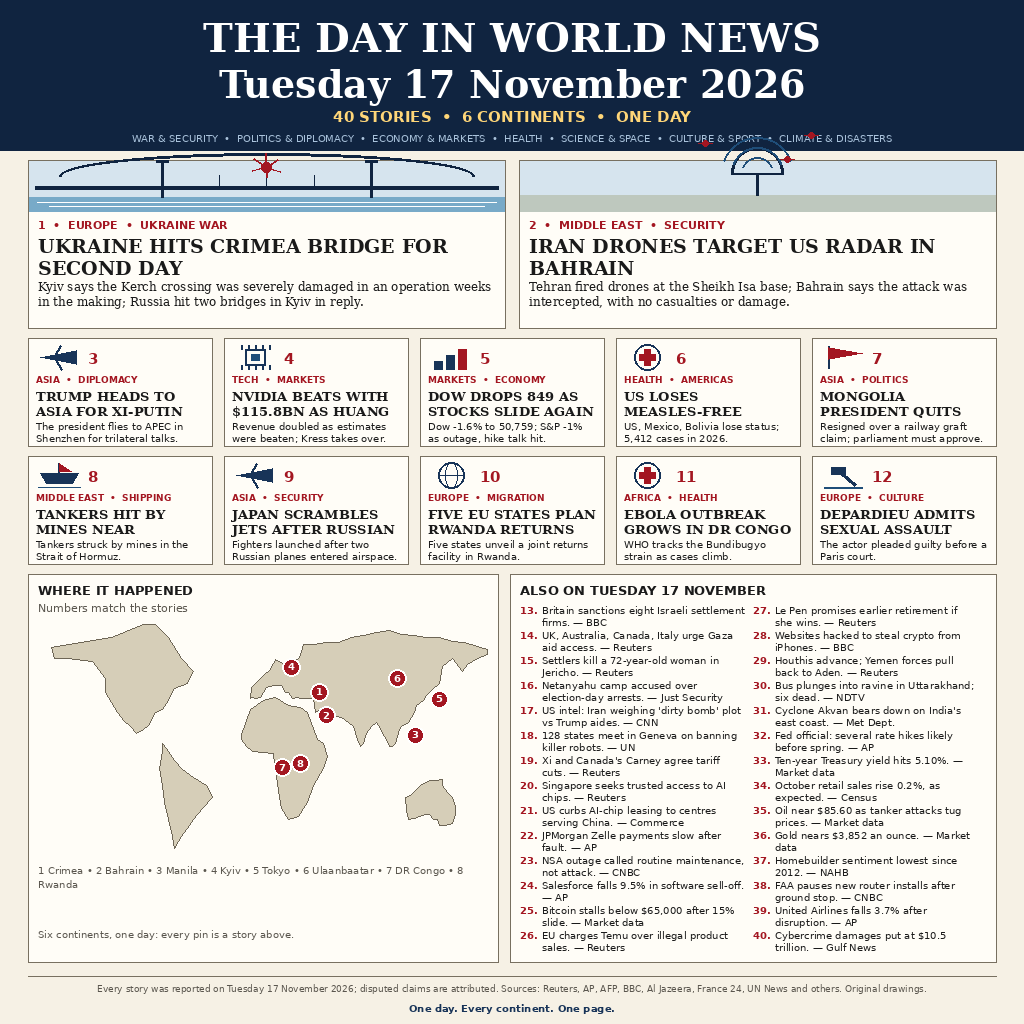
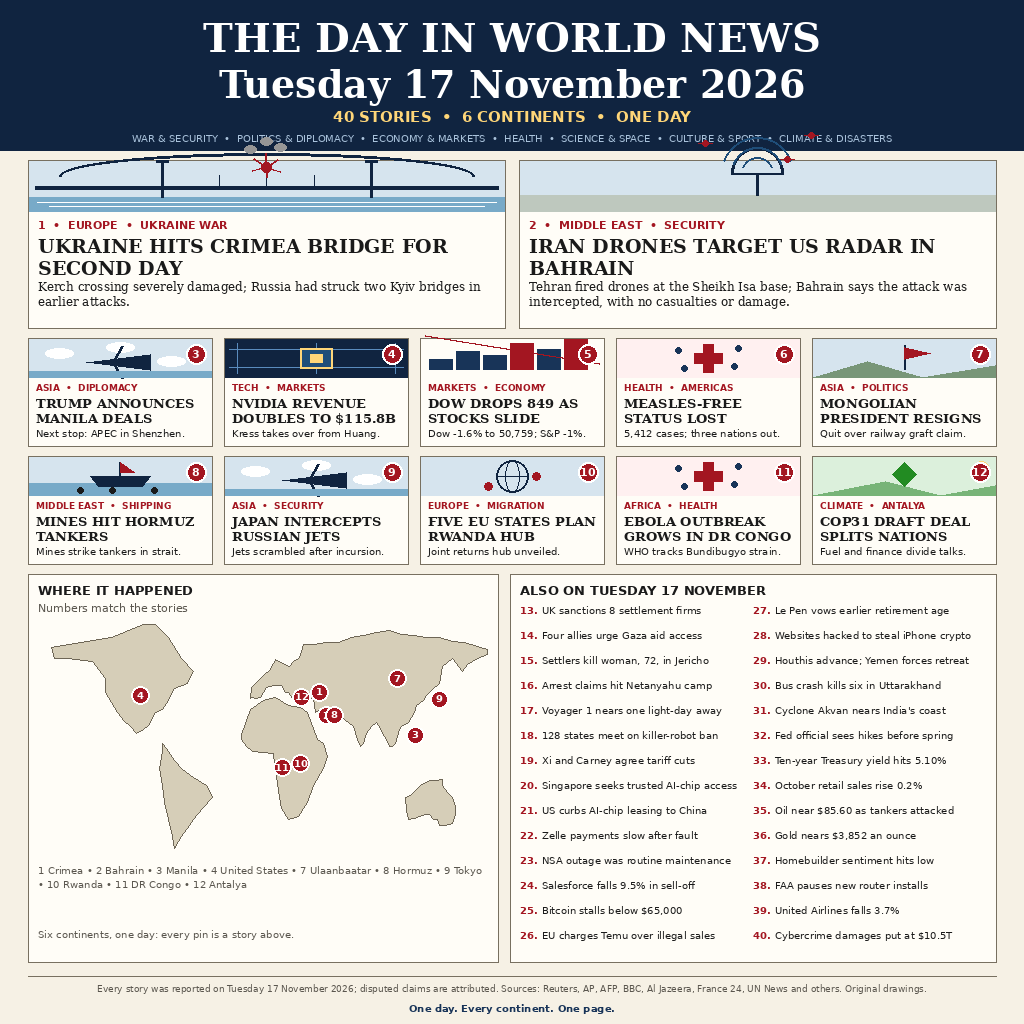
v2: fix all 3 LLM verdicts — full illustration band per card, story-number map pins, shortened headlines, COP31 replaces Depardieu, 'in reply' causality fixed, 1-line also-on; layout lint 100% pass

diff --git a/tools/build_image.py b/tools/build_image.py
@@ -168,6 +168,10 @@ def draw_icon(d, kind, x, y, w, h, c1, c2):
         d.ellipse([cx - 13, cy - 13, cx + 13, cy + 13], outline=c1, width=2)
         d.ellipse([cx - 6, cy - 13, cx + 6, cy + 13], outline=c1, width=1)
         d.line([(cx - 13, cy), (cx + 13, cy)], fill=c1, width=1)
+    elif kind == "leaf":
+        d.polygon([(cx, cy - 12), (cx + 10, cy), (cx, cy + 12), (cx - 10, cy)],
+                  fill=(34, 139, 34))
+        d.line([(cx - 10, cy + 12), (cx + 10, cy - 12)], fill=c1, width=1)
     else:
         d.ellipse([cx - 10, cy - 10, cx + 10, cy + 10], outline=c1, width=2)
 
@@ -194,7 +198,10 @@ def draw_hero_art(d, kind, x, y, w, h):
         for dx, dy in ((-12, -8), (0, -14), (12, -8), (-14, 4), (14, 4), (0, 10)):
             d.line([(bx, by), (bx + dx, by + dy)], fill=RED, width=2)
         d.ellipse([bx - 5, by - 5, bx + 5, by + 5], fill=RED)
-    else:  # radar
+        # smoke puffs above the blast
+        for sx, sy in ((bx - 16, by - 18), (bx + 14, by - 20), (bx, by - 26)):
+            d.ellipse([sx - 6, sy - 4, sx + 6, sy + 4], fill=(150, 150, 150))
+    elif kind == "radar":
         # ground + dish
         gy = y + h - 16
         d.rectangle([x, y + h - 16, x + w, y + h], fill=(190, 200, 190))
@@ -208,6 +215,77 @@ def draw_hero_art(d, kind, x, y, w, h):
         for dx, dy in ((-52, -30), (54, -38), (30, -14)):
             d.ellipse([mx + dx - 3, gy - 22 + dy - 3, mx + dx + 3, gy - 22 + dy + 3], fill=RED)
             d.line([(mx + dx - 7, gy - 22 + dy), (mx + dx + 7, gy - 22 + dy)], fill=RED, width=1)
+    elif kind == "plane":
+        for cx0, cy0 in ((x + 30, y + 14), (x + w - 40, y + 22), (x + w // 2, y + 8)):
+            d.ellipse([cx0 - 14, cy0 - 5, cx0 + 14, cy0 + 5], fill=(255, 255, 255))
+        px, py = x + w // 2, y + h // 2 + 4
+        d.polygon([(px - 34, py), (px + 30, py - 8), (px + 30, py + 8)], fill=NAVY)
+        d.line([(px - 6, py - 2), (px + 2, py - 16)], fill=NAVY, width=3)
+        d.line([(px - 6, py + 2), (px + 2, py + 16)], fill=NAVY, width=3)
+        d.rectangle([x, y + h - 6, x + w, y + h], fill=(120, 170, 200))
+    elif kind == "chip":
+        d.rectangle([x, y, x + w, y + h], fill=NAVY)
+        for lx in (x + 12, x + w // 2, x + w - 12):
+            d.line([(lx, y + 4), (lx, y + h - 4)], fill=(90, 140, 190), width=1)
+        for ly in (y + 10, y + h - 10):
+            d.line([(x + 4, ly), (x + w - 4, ly)], fill=(90, 140, 190), width=1)
+        cx, cy = x + w // 2, y + h // 2
+        d.rectangle([cx - 16, cy - 10, cx + 16, cy + 10], fill=(31, 78, 121),
+                    outline=(255, 214, 120), width=2)
+        d.rectangle([cx - 6, cy - 4, cx + 6, cy + 4], fill=(255, 214, 120))
+    elif kind == "chart":
+        d.rectangle([x, y, x + w, y + h], fill=(255, 253, 247))
+        base = y + h - 8
+        for i, bh in enumerate((10, 18, 14, 26, 20, 30)):
+            bx = x + 8 + i * ((w - 16) // 6)
+            d.rectangle([bx, base - bh, bx + (w - 16) // 6 - 4, base],
+                        fill=RED if i in (3, 5) else NAVY2)
+        d.line([(x + 4, base - 34), (x + w - 4, base - 6)], fill=RED, width=2)
+    elif kind == "health":
+        d.rectangle([x, y, x + w, y + h], fill=(255, 240, 240))
+        cx, cy = x + w // 2, y + h // 2
+        d.rectangle([cx - 5, cy - 14, cx + 5, cy + 14], fill=RED)
+        d.rectangle([cx - 14, cy - 5, cx + 14, cy + 5], fill=RED)
+        for dx, dy in ((-30, -8), (30, -10), (-24, 10), (26, 8)):
+            d.ellipse([cx + dx - 3, cy + dy - 3, cx + dx + 3, cy + dy + 3], fill=NAVY2)
+    elif kind == "flag":
+        d.rectangle([x, y, x + w, y + h], fill=SKY)
+        d.polygon([(x, y + h), (x + w * 0.3, y + h - 16), (x + w * 0.6, y + h),
+                   (x + w, y + h - 12), (x + w, y + h)], fill=(120, 150, 120))
+        px = x + w // 2
+        d.line([(px, y + 6), (px, y + h - 8)], fill=NAVY, width=2)
+        d.polygon([(px, y + 8), (px + 26, y + 14), (px, y + 20)], fill=RED)
+    elif kind == "ship":
+        d.rectangle([x, y, x + w, y + h], fill=SKY)
+        d.rectangle([x, y + h - 12, x + w, y + h], fill=(120, 170, 200))
+        cx, cy = x + w // 2, y + h // 2
+        d.polygon([(cx - 30, cy), (cx + 30, cy), (cx + 22, cy + 10), (cx - 22, cy + 10)],
+                  fill=NAVY)
+        d.line([(cx, cy), (cx, cy - 14)], fill=NAVY, width=2)
+        d.polygon([(cx, cy - 14), (cx + 14, cy - 4), (cx, cy - 4)], fill=RED)
+        for dx in (-40, -8, 34):
+            d.ellipse([cx + dx - 3, cy + 14 - 3, cx + dx + 3, cy + 14 + 3],
+                      fill=(26, 26, 26))
+    elif kind == "globe":
+        d.rectangle([x, y, x + w, y + h], fill=SKY)
+        cx, cy = x + w // 2, y + h // 2
+        d.ellipse([cx - 16, cy - 16, cx + 16, cy + 16], outline=NAVY, width=2)
+        d.ellipse([cx - 7, cy - 16, cx + 7, cy + 16], outline=NAVY, width=1)
+        d.line([(cx - 16, cy), (cx + 16, cy)], fill=NAVY, width=1)
+        d.ellipse([cx + 20, cy - 4, cx + 28, cy + 4], fill=RED)
+        d.ellipse([cx - 28, cy + 6, cx - 20, cy + 14], fill=RED)
+    elif kind == "leaf":
+        d.rectangle([x, y, x + w, y + h], fill=(220, 240, 220))
+        d.ellipse([x + w - 22, y + 4, x + w - 6, y + 20], fill=(255, 214, 120))
+        d.polygon([(x, y + h), (x + w * 0.4, y + h - 14), (x + w * 0.7, y + h),
+                   (x + w, y + h - 10), (x + w, y + h)], fill=(120, 180, 120))
+        cx, cy = x + w // 2, y + h // 2 - 2
+        d.polygon([(cx, cy - 12), (cx + 12, cy), (cx, cy + 12), (cx - 12, cy)],
+                  fill=(34, 139, 34))
+    else:
+        d.rectangle([x, y, x + w, y + h], fill=SKY)
+        d.ellipse([x + w // 2 - 12, y + h // 2 - 12, x + w // 2 + 12, y + h // 2 + 12],
+                  outline=NAVY, width=2)
 
 
 def main():
@@ -266,14 +344,21 @@ def main():
         x = mx + c * (cw + gap_x)
         yy = cy0 + r * (ch + gap_y)
         d.rectangle([x, yy, x + cw, yy + ch], fill=PANEL, outline=RULE, width=1)
-        draw_icon(d, b["icon"], x + 8, yy + 6, 46, 26, NAVY2, BLUE)
-        d.text((x + 60, yy + 12), "%d" % (idx + 3), font=SANS_B(15), fill=RED)
-        d.text((x + 8, yy + 36), b["kicker"], font=SANS_B(9), fill=RED)
+        draw_hero_art(d, b["icon"], x + 1, yy + 1, cw - 2, 38)
+        # story number badge on the art band
+        bx0, by0 = x + cw - 26, yy + 6
+        d.ellipse([bx0, by0, bx0 + 20, by0 + 20], fill=RED,
+                  outline=(255, 255, 255), width=2)
+        num = str(idx + 3)
+        nw = d.textlength(num, font=SANS_B(11))
+        d.text((bx0 + (20 - nw) / 2, by0 + 3), num, font=SANS_B(11),
+               fill=(255, 255, 255))
+        d.text((x + 8, yy + 44), b["kicker"], font=SANS_B(9), fill=RED)
         hf2 = SERIF_B(13)
         hlines = wrap(d, b["headline"], hf2, cw - 16)[:2]
-        hyy = draw_lines(d, hlines, x + 8, yy + 50, hf2, INK, 15)
+        hyy = draw_lines(d, hlines, x + 8, yy + 57, hf2, INK, 15)
         bf2 = SANS(10)
-        blines = wrap(d, b["body"], bf2, cw - 16)[:2]
+        blines = wrap(d, b["body"], bf2, cw - 16)[:1]
         draw_lines(d, blines, x + 8, hyy + 2, bf2, INK, 12)
 
     # ---------- map + also-on (rank 1 footer) ----------
@@ -329,7 +414,7 @@ def main():
         num = "%d." % (i + 13)
         d.text((x, yy), num, font=SANS_B(10), fill=RED)
         tx = x + d.textlength(num, font=SANS_B(10)) + 4
-        for ln in wrap(d, item, SANS(10), col_w - (tx - x) - 8)[:2]:
+        for ln in wrap(d, item, SANS(10), col_w - (tx - x) - 8)[:1]:
             d.text((tx, yy), ln, font=SANS(10), fill=INK)
             yy += 12
 

diff --git a/tools/check_layout.py b/tools/check_layout.py
@@ -1,0 +1,82 @@
+#!/usr/bin/env python3
+"""Layout lint for the 17 Nov entry: no text may be cut off.
+
+Checks every headline/body/one-liner against the exact font, size and
+box width used in build_image.py. Exit 1 if anything would wrap past
+its allowed line count (the [:N] slices in build_image.py would drop
+words). Run: python3 tools/check_layout.py
+"""
+import json
+import os
+import sys
+
+from PIL import Image, ImageDraw, ImageFont
+
+HERE = os.path.dirname(os.path.abspath(__file__))
+W, H = 1024, 1024
+FONT_DIR = "/usr/share/fonts/truetype/dejavu"
+
+
+def font(name, size):
+    return ImageFont.truetype(os.path.join(FONT_DIR, name), size)
+
+
+SERIF_B = lambda s: font("DejaVuSerif-Bold.ttf", s)      # noqa: E731
+SERIF = lambda s: font("DejaVuSerif.ttf", s)            # noqa: E731
+SANS_B = lambda s: font("DejaVuSans-Bold.ttf", s)        # noqa: E731
+SANS = lambda s: font("DejaVuSans.ttf", s)              # noqa: E731
+
+
+def wrap(draw, text, fnt, width):
+    lines, cur = [], ""
+    for word in text.split(" "):
+        trial = (cur + " " + word).strip()
+        if draw.textlength(trial, font=fnt) <= width:
+            cur = trial
+        else:
+            if cur:
+                lines.append(cur)
+            cur = word
+    if cur:
+        lines.append(cur)
+    return lines
+
+
+def main():
+    with open(os.path.join(HERE, "stories.json"), encoding="utf-8") as fh:
+        data = json.load(fh)
+    img = Image.new("RGB", (W, H), (255, 255, 255))
+    d = ImageDraw.Draw(img)
+    mx = 28
+    hw = (W - 2 * mx - 14) // 2
+    cw = (W - 2 * mx - 4 * 12) / 5
+    fails = []
+
+    def check(label, text, fnt, width, max_lines):
+        n = len(wrap(d, text, fnt, width))
+        status = "OK " if n <= max_lines else "FAIL"
+        print(f"{status} {label}: {n}/{max_lines} lines: {text!r}")
+        if n > max_lines:
+            fails.append(label)
+
+    for i, hero in enumerate(data["heroes"]):
+        check(f"hero{i+1} headline", hero["headline"], SERIF_B(19), hw - 20, 2)
+        check(f"hero{i+1} body", hero["body"], SERIF(12), hw - 20, 2)
+    for i, card in enumerate(data["cards"]):
+        check(f"card{i+3} headline", card["headline"], SERIF_B(13), cw - 16, 2)
+        check(f"card{i+3} body", card["body"], SANS(10), cw - 16, 1)
+    list_w = W - mx - (mx + 482)
+    col_w = (list_w - 20) / 2
+    for i, item in enumerate(data["also_on"]):
+        num = "%d." % (i + 13)
+        avail = col_w - d.textlength(num, font=SANS_B(10)) - 12
+        check(f"also-on{i+13}", item, SANS(10), avail, 1)
+    if fails:
+        print(f"\n{len(fails)} FAILURES: {fails}")
+        return 1
+    print("\nALL LAYOUT CHECKS PASSED")
+    return 0
+
+
+if __name__ == "__main__":
+    sys.exit(main())
